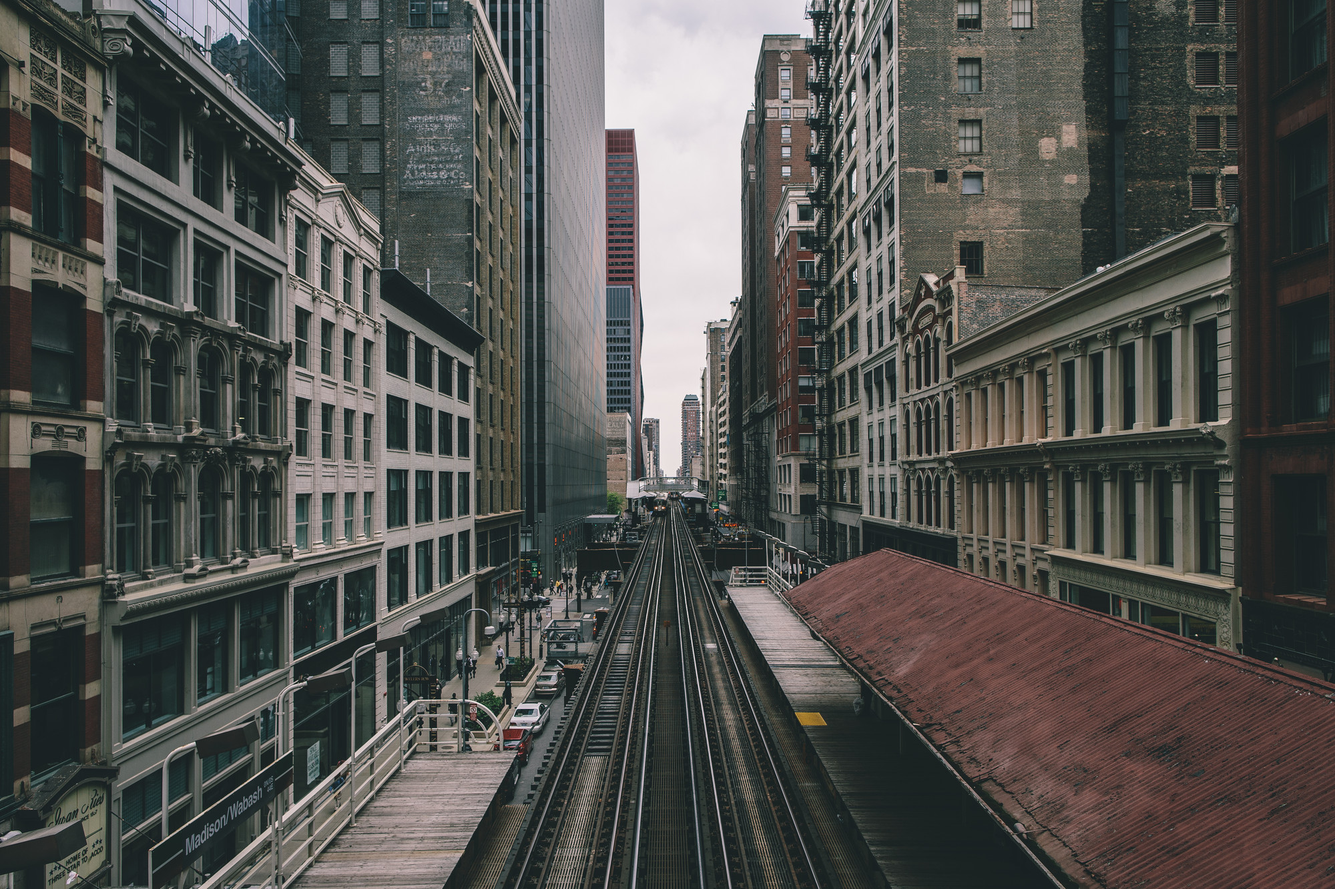
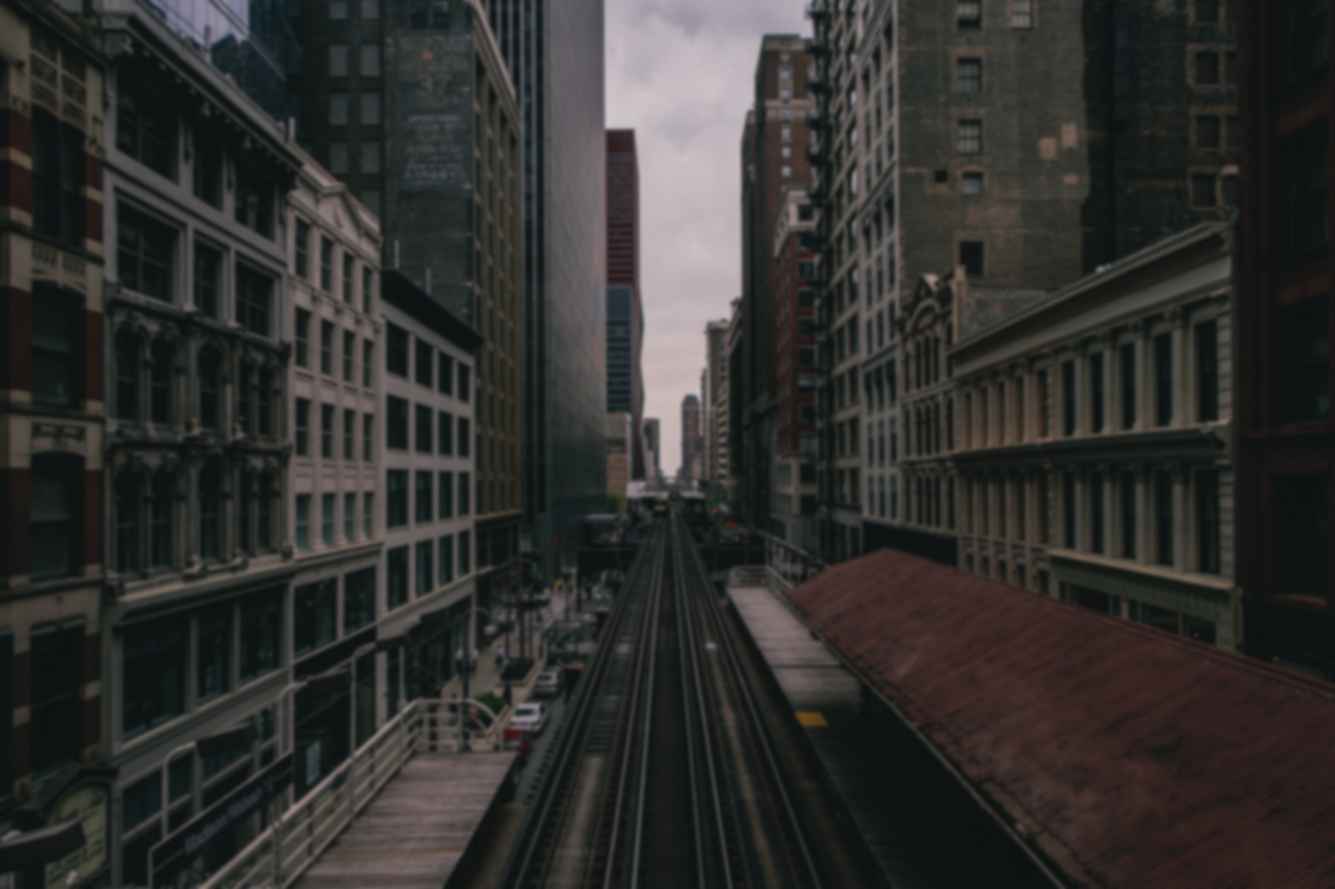
actualization

diff --git a/css/style.css b/css/style.css
@@ -10,6 +10,10 @@ html {
     box-sizing: border-box;
     scroll-behavior: smooth;
     min-height: 100%;
+    background-image: url(/imgs/BG.jpg);
+    background-position: center;
+    background-repeat: no-repeat;
+    background-size: cover;
 
 }
 
@@ -326,10 +330,6 @@ body {
     .nav-cont a {
         color: rgb(151, 151, 151)
     }
-
-    .bg-image{
-        height: 103rem;
-    }
 }
 
 
@@ -559,10 +559,6 @@ body {
 @media (max-width: 1024px) {
     .product-cont {
         height: 90rem;
-    }
-
-    .bg-image{
-        height: 138rem;
     }
 }
 

diff --git a/index.html b/index.html
@@ -16,8 +16,6 @@
 </head>
 
 <body>
-
-    <div class="bg-image"></div>
     
     <header id="top">
         <div class="cont-nav pMain">
